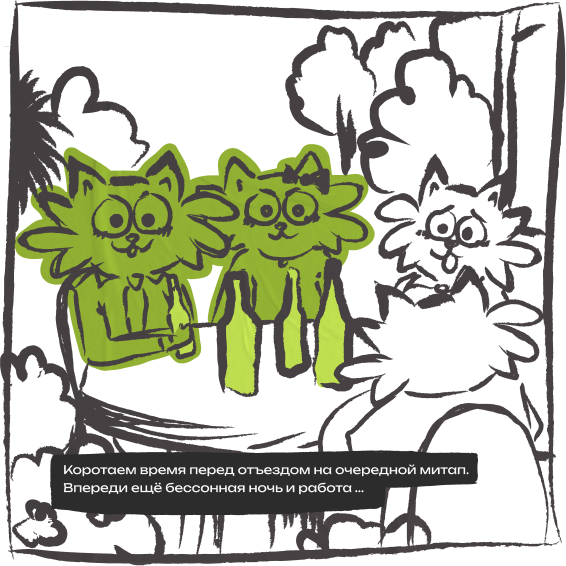
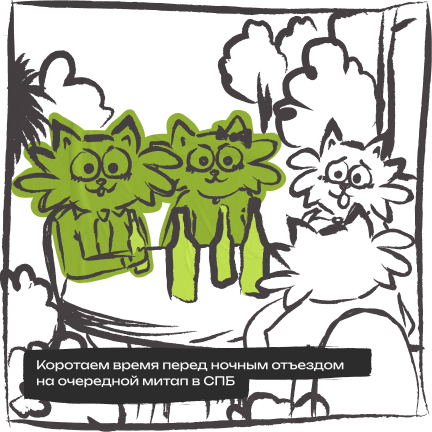
feat: update partners

diff --git a/components/landing/partners.jsx b/components/landing/partners.jsx
@@ -3,6 +3,7 @@ import { styled } from '@linaria/react'
 import Image from 'next/image'
 import LogoCoffee from '../../image/coffee-logo.png'
 import LogoLoft from '../../image/loft-logo.png'
+import LogoUnion from '../../image/union.png'
 
 import { IconTelegram } from '../icons/icon-telegram'
 import { IconEmail } from '../icons/icon-email'
@@ -24,6 +25,12 @@ export default function Partners () {
 						className='coffee-studion'
 						alt='coffee-studion'
 						src={LogoCoffee}
+						loading='lazy'
+					/>
+					<Logo 
+						className='union'
+						alt='union'
+						src={LogoUnion}
 						loading='lazy'
 					/>
 				</Logos>
@@ -111,11 +118,7 @@ const Content = styled.div`
 const Logos = styled.div`
 	display: flex;
 	align-items: center;
-	gap: 150px;
-
-	@media screen and (max-width: 1440px) {
-		gap: 100px;
-	}
+	gap: 100px;
 
 	@media screen and (max-width: 1024px) {
 		gap: 75px;
@@ -142,12 +145,22 @@ const Logo = styled(Image)`
 		height: 150px;
 	}
 
+	&.union {
+		width: 150px;
+		height: 150px;
+	}
+
 	@media screen and (max-width: 1440px) {
 		&.coffee-studion {
 			max-width: 250px;
 		}
 
 		&.loft {
+			width: 125px;
+			height: 125px;
+		}
+
+		&.union {
 			width: 125px;
 			height: 125px;
 		}
@@ -161,6 +174,11 @@ const Logo = styled(Image)`
 
 		&.coffee-studion {
 			max-width: 196px;
+		}
+
+		&.union {
+			width: 100px;
+			height: 100px;
 		}
 	}
 
